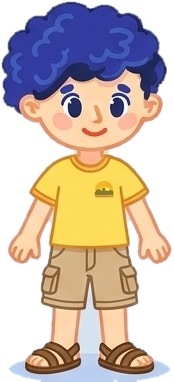
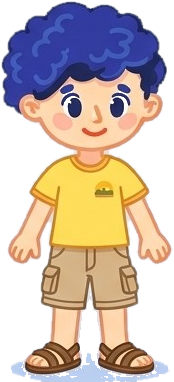
Oblékání: kraťasy, žluté tričko a sandály na výběr; čistší výřez Sama, větší pruhované tričko

diff --git a/src/app/prvouka/PrvoukaObleceni.tsx b/src/app/prvouka/PrvoukaObleceni.tsx
@@ -26,13 +26,16 @@ interface Item { id: string; name: string; slot: Slot; pieces: Piece[]; thumb: s
 const ITEMS: Item[] = [
   { id: 'cepice', name: 'Čepice', slot: 'hlava', thumb: 'cepice', pieces: [{ src: 'nas-cepice', box: [13, 0, 185, 105], z: 9 }] },
   { id: 'sala', name: 'Šála', slot: 'krk', thumb: 'sala', pieces: [{ src: 'sala', box: [59, 162, 151, 256], z: 8 }] },
-  { id: 'triko', name: 'Pruhované tričko', slot: 'vrsek', thumb: 'triko', pieces: [{ src: 'triko', box: [39, 160, 171, 260], z: 4 }] },
+  { id: 'zlute-triko', name: 'Žluté tričko', slot: 'vrsek', thumb: 'zlute-triko', pieces: [] },
+  { id: 'triko', name: 'Pruhované tričko', slot: 'vrsek', thumb: 'triko', pieces: [{ src: 'triko', box: [31, 156, 179, 263], z: 4 }] },
   { id: 'mikina', name: 'Mikina', slot: 'vrsek', thumb: 'mikina', pieces: [{ src: 'nas-mikina', box: [21, 157, 190, 298], z: 4 }] },
   { id: 'bunda', name: 'Bunda se svetrem', slot: 'bunda', thumb: 'bunda', pieces: [{ src: 'nas-bunda', box: [17, 147, 195, 303], z: 6 }] },
   { id: 'zimni-bunda', name: 'Zimní bunda', slot: 'bunda', thumb: 'zimni-bunda', pieces: [{ src: 'nas-zimni-bunda', box: [16, 127, 197, 313], z: 6 }] },
+  { id: 'kratasy', name: 'Kraťasy', slot: 'dolu', thumb: 'kratasy', pieces: [] },
   { id: 'dziny', name: 'Džíny', slot: 'dolu', thumb: 'dziny', pieces: [{ src: 'nas-dziny', box: [36, 269, 173, 375], z: 2 }] },
   { id: 'kalhoty', name: 'Kalhoty', slot: 'dolu', thumb: 'kalhoty', pieces: [{ src: 'nas-kalhoty', box: [23, 269, 189, 368], z: 2 }] },
   { id: 'zimni-kalhoty', name: 'Zimní kalhoty', slot: 'dolu', thumb: 'nas-zimni-kalhoty', pieces: [{ src: 'nas-zimni-kalhoty', box: [47, 292, 167, 363], z: 2 }] },
+  { id: 'sandaly', name: 'Sandály', slot: 'boty', thumb: 'sandaly', pieces: [] },
   { id: 'tenisky', name: 'Tenisky', slot: 'boty', thumb: 'tenisky', pieces: [{ src: 'nas-tenisky', box: [36, 357, 173, 389], z: 3 }] },
   { id: 'boty', name: 'Kotníkové boty', slot: 'boty', thumb: 'boty', pieces: [{ src: 'nas-boty', box: [29, 352, 190, 392], z: 3 }] },
   { id: 'holinky', name: 'Holínky', slot: 'boty', thumb: 'holinky', pieces: [{ src: 'holinky', box: [41, 288, 173, 379], z: 3 }] },
@@ -41,8 +44,6 @@ const ITEMS: Item[] = [
   { id: 'destnik', name: 'Deštník', slot: 'destnik', thumb: 'destnik', pieces: [{ src: 'destnik', box: [161, 118, 277, 282], z: 10 }] },
 ];
 const BY_ID = Object.fromEntries(ITEMS.map((i) => [i.id, i]));
-/** Co má Sam na sobě, když v dané části nic nevybral. */
-const BASE: Partial<Record<Slot, string>> = { vrsek: 'žluté tričko', dolu: 'kraťasy', boty: 'sandály' };
 const SHELVES: Array<{ title: string; slots: Slot[] }> = [
   { title: 'Na hlavu a krk', slots: ['hlava', 'krk'] },
   { title: 'Nahoru', slots: ['vrsek', 'bunda'] },
@@ -55,6 +56,8 @@ type Outfit = Partial<Record<Slot, string>>;
 type WeatherId = 'prsi' | 'snezi' | 'horko' | 'fouka';
 interface Weather { id: WeatherId; label: string; sky: string; temp: string; ask: string; bg: string; done: string; check: (o: Outfit) => string | null }
 
+// Žluté tričko, kraťasy a sandály má Sam na sobě vždycky – vybrat je je totéž jako nic.
+const norm = (o: Outfit): Outfit => ({ ...o, vrsek: o.vrsek === 'zlute-triko' ? undefined : o.vrsek, dolu: o.dolu === 'kratasy' ? undefined : o.dolu, boty: o.boty === 'sandaly' ? undefined : o.boty });
 const warmTop = (o: Outfit) => o.vrsek === 'mikina' || Boolean(o.bunda);
 const WEATHER: Record<WeatherId, Weather> = {
   snezi: {
@@ -116,7 +119,7 @@ export function PrvoukaObleceni({ settings = {} }: { settings?: Record<string, a
 
   const toggle = (it: Item) => setOutfit((o) => ({ ...o, [it.slot]: o[it.slot] === it.id ? undefined : it.id }));
   const goOut = () => {
-    const problem = W.check(outfit);
+    const problem = W.check(norm(outfit));
     if (problem) { setMistakes((m) => m + 1); setFeedback({ isCorrect: false, hint: problem }); return; }
     if (mistakes === 0) setClean((c) => c + 1);
     setFeedback({ isCorrect: true, info: W.done });
@@ -181,9 +184,6 @@ export function PrvoukaObleceni({ settings = {} }: { settings?: Record<string, a
               </div>
             </div>
           ))}
-          <p className="text-xs leading-snug" style={{ color: '#56628a' }}>
-            Když v nějaké části nic nevybereš, má Sam svoje {Object.values(BASE).join(', ')}.
-          </p>
         </div>
       </div>
       {!free ? <PrvoukaProgress current={ri} total={rounds.length} lives={0} maxLives={0} /> : null}
